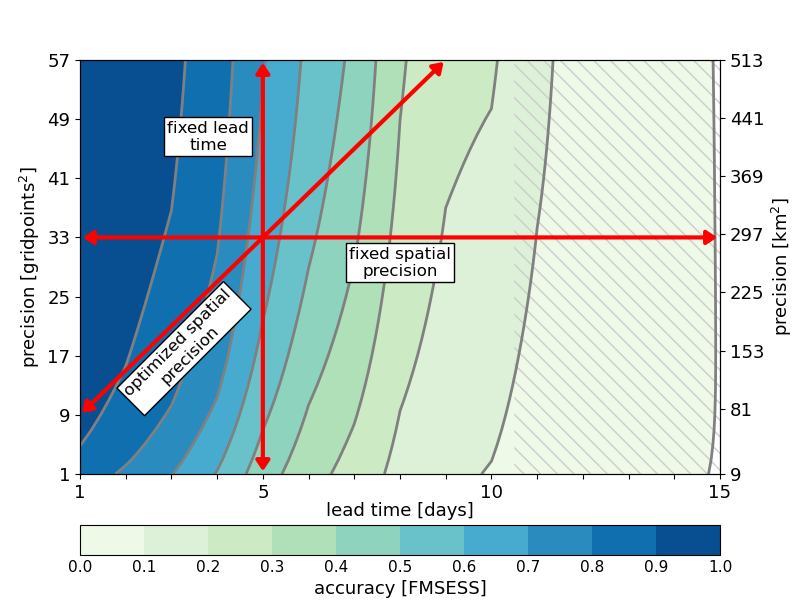
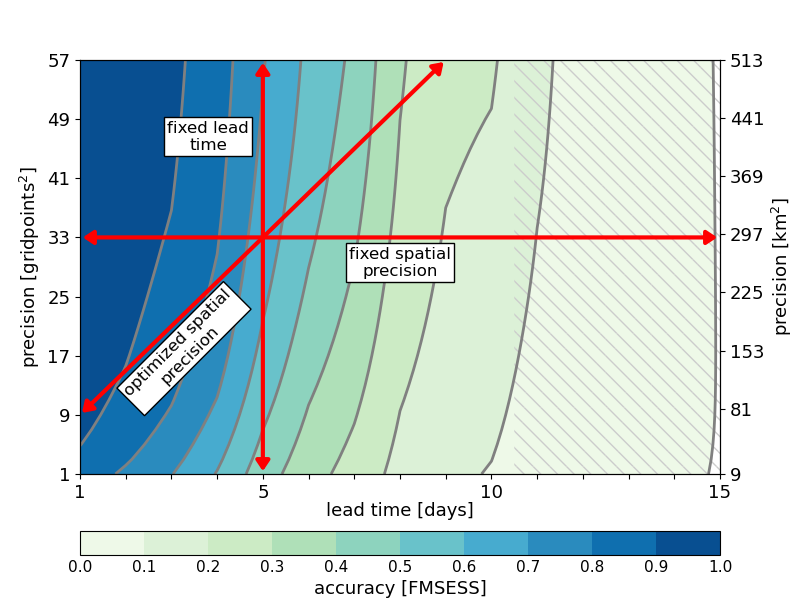
update

Changed region(s): [[0.0938, 0.87, 0.9062, 0.9]]

diff --git a/code/plot/plot-fig-05.py b/code/plot/plot-fig-05.py
@@ -87,7 +87,7 @@ fig.text(0.26, 0.75, 'fixed lead\ntime',horizontalalignment='center',
 
 fig.subplots_adjust(right=0.9, left=0.1,top=0.9,bottom=0.21)
 
-cb1_ax = fig.add_axes([0.1, 0.075, 0.8, 0.05])
+cb1_ax = fig.add_axes([0.1, 0.075, 0.8, 0.04])
 cb1    = fig.colorbar(p1, cax=cb1_ax, orientation='horizontal',ticks=clevs_score, pad=0.025)
 cb1.ax.tick_params(labelsize=fontsize, size=0) 
 cb1.ax.yaxis.set_label_position('right') 
